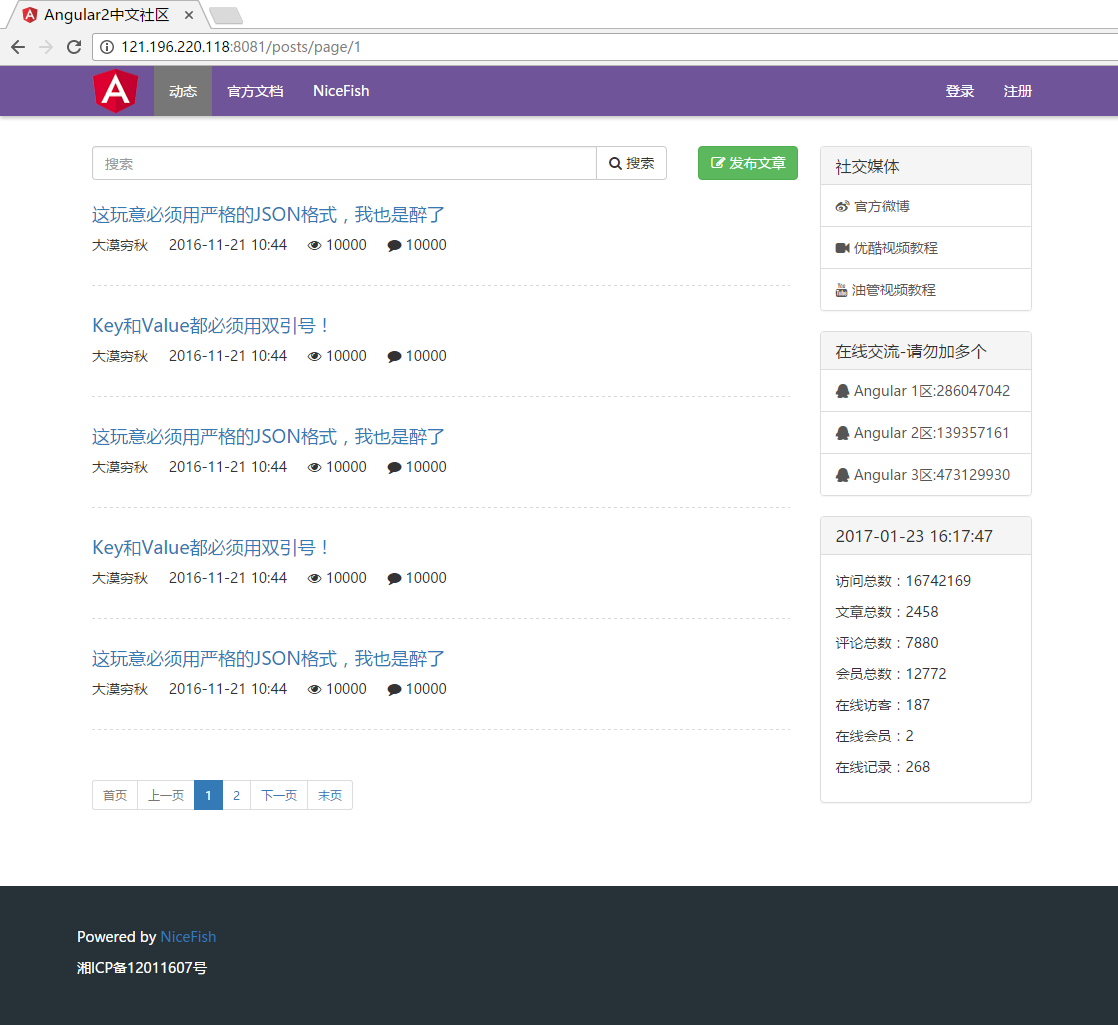
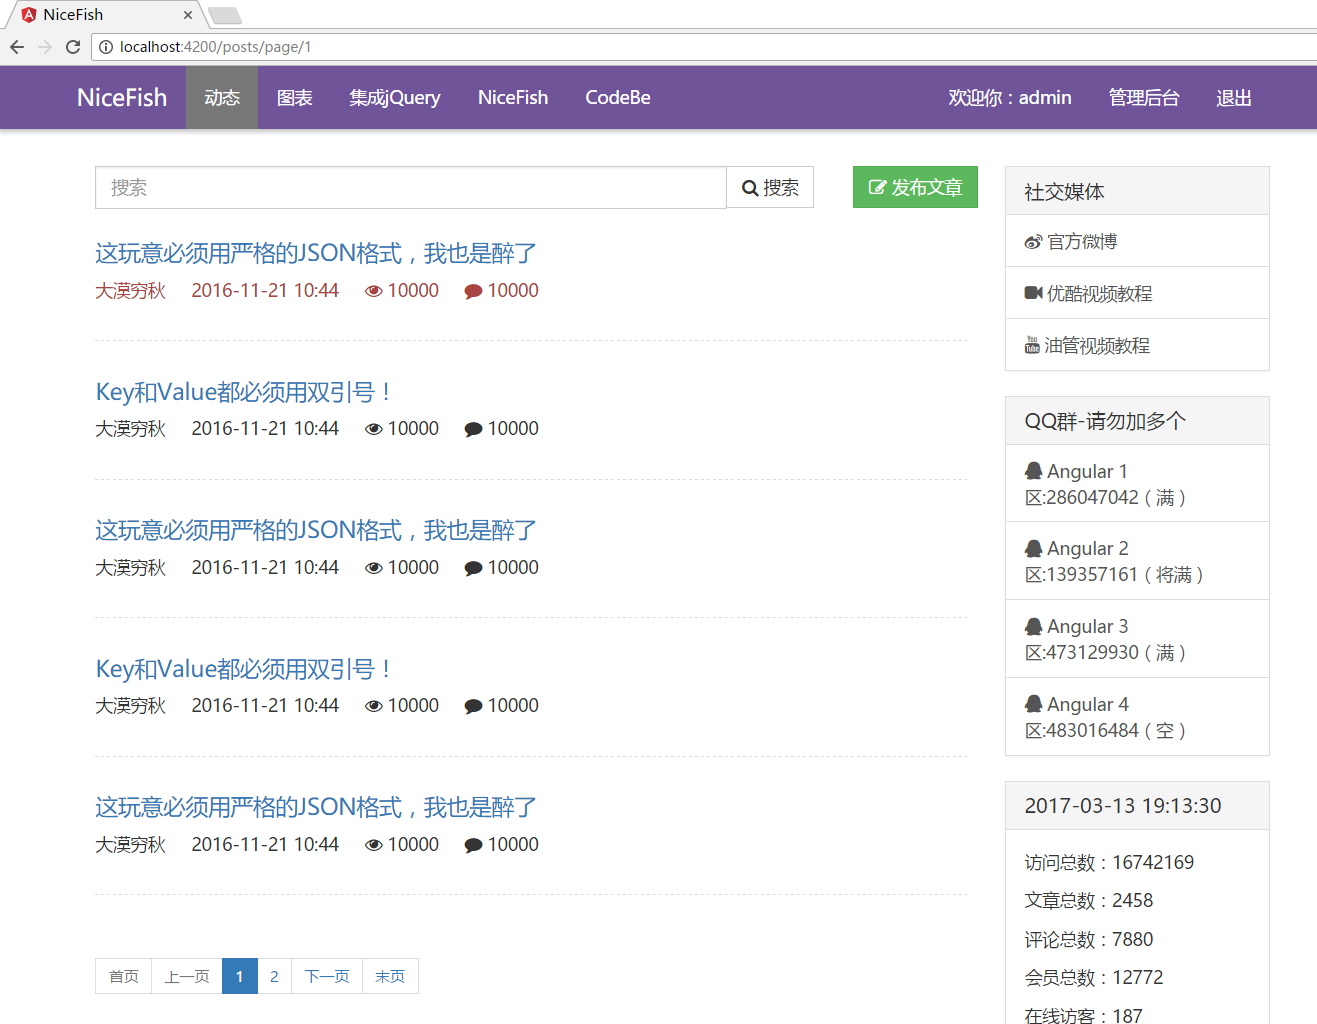
集成jQuery和jQueryUI；

Changed region(s): [[0.0, 0.0, 1.0, 1.0], [0.0608, 0.625, 0.3953, 0.7188], [0.0608, 0.5, 0.4258, 0.5938]]

diff --git a/src/app/use-jquery/use-jquery.component.html b/src/app/use-jquery/use-jquery.component.html
@@ -1,3 +1,41 @@
 <div class="container">
-    <div id="example"></div>
+    <div class="row">
+        <div class="col-sm-12">
+            <h3>本页用来演示如何集成jQuery和jQueryUI控件</h3>
+        </div>
+    </div>
+    <div class="row">
+        <div class="col-sm-12">
+            <p>
+                【请仔细看】相关的文件有：angular-cli.json/typings.d.ts/styles.scss
+            </p>
+        </div>
+    </div>
+    <div class="row">
+        <div class="col-sm-12">
+            日期选择器：
+            <input type="text" id="datepicker">
+        </div>
+    </div>
+    <div class="row">
+        <div class="col-sm-12">
+            <div id="tabs">
+                <ul>
+                    <li><a href="#tabs-1">Nunc tincidunt</a></li>
+                    <li><a href="#tabs-2">Proin dolor</a></li>
+                    <li><a href="#tabs-3">Aenean lacinia</a></li>
+                </ul>
+                <div id="tabs-1">
+                    <p>Proin elit arcu, rutrum commodo, vehicula tempus, commodo a, risus. Curabitur nec arcu. Donec sollicitudin mi sit amet mauris. Nam elementum quam ullamcorper ante. Etiam aliquet massa et lorem. Mauris dapibus lacus auctor risus. Aenean tempor ullamcorper leo. Vivamus sed magna quis ligula eleifend adipiscing. Duis orci. Aliquam sodales tortor vitae ipsum. Aliquam nulla. Duis aliquam molestie erat. Ut et mauris vel pede varius sollicitudin. Sed ut dolor nec orci tincidunt interdum. Phasellus ipsum. Nunc tristique tempus lectus.</p>
+                </div>
+                <div id="tabs-2">
+                    <p>Morbi tincidunt, dui sit amet facilisis feugiat, odio metus gravida ante, ut pharetra massa metus id nunc. Duis scelerisque molestie turpis. Sed fringilla, massa eget luctus malesuada, metus eros molestie lectus, ut tempus eros massa ut dolor. Aenean aliquet fringilla sem. Suspendisse sed ligula in ligula suscipit aliquam. Praesent in eros vestibulum mi adipiscing adipiscing. Morbi facilisis. Curabitur ornare consequat nunc. Aenean vel metus. Ut posuere viverra nulla. Aliquam erat volutpat. Pellentesque convallis. Maecenas feugiat, tellus pellentesque pretium posuere, felis lorem euismod felis, eu ornare leo nisi vel felis. Mauris consectetur tortor et purus.</p>
+                </div>
+                <div id="tabs-3">
+                    <p>Mauris eleifend est et turpis. Duis id erat. Suspendisse potenti. Aliquam vulputate, pede vel vehicula accumsan, mi neque rutrum erat, eu congue orci lorem eget lorem. Vestibulum non ante. Class aptent taciti sociosqu ad litora torquent per conubia nostra, per inceptos himenaeos. Fusce sodales. Quisque eu urna vel enim commodo pellentesque. Praesent eu risus hendrerit ligula tempus pretium. Curabitur lorem enim, pretium nec, feugiat nec, luctus a, lacus.</p>
+                    <p>Duis cursus. Maecenas ligula eros, blandit nec, pharetra at, semper at, magna. Nullam ac lacus. Nulla facilisi. Praesent viverra justo vitae neque. Praesent blandit adipiscing velit. Suspendisse potenti. Donec mattis, pede vel pharetra blandit, magna ligula faucibus eros, id euismod lacus dolor eget odio. Nam scelerisque. Donec non libero sed nulla mattis commodo. Ut sagittis. Donec nisi lectus, feugiat porttitor, tempor ac, tempor vitae, pede. Aenean vehicula velit eu tellus interdum rutrum. Maecenas commodo. Pellentesque nec elit. Fusce in lacus. Vivamus a libero vitae lectus hendrerit hendrerit.</p>
+                </div>
+            </div>
+        </div>
+    </div>
 </div>

diff --git a/src/app/use-jquery/use-jquery.component.ts b/src/app/use-jquery/use-jquery.component.ts
@@ -1,24 +1,16 @@
 import { Component, ElementRef, OnInit } from '@angular/core';
 
-var jQuery =require("jQuery");
-
 @Component({
   selector: 'app-use-jquery',
   templateUrl: './use-jquery.component.html',
   styleUrls: ['./use-jquery.component.scss']
 })
 export class UseJqueryComponent implements OnInit {
-
-	rootNode:any;
-
-  	constructor(rootNode:ElementRef) { 
-  		this.rootNode=rootNode;
+  	constructor() { 
   	}
 
   	ngOnInit() {
-  		var el=jQuery(this.rootNode.nativeElement).find("#example")[0];
-  		console.log(el);
-  		console.log(jQuery);
-
+      $("#datepicker").datepicker();
+      $("#tabs").tabs();
   	}
 }

diff --git a/src/typings.d.ts b/src/typings.d.ts
@@ -5,3 +5,6 @@
 declare var System: any;
 declare var require: NodeRequire;
 declare var tinymce: any;
+declare var JQuery: any;
+declare var jQuery: any;
+declare var $: any;

diff --git a/src/styles.scss b/src/styles.scss
@@ -16,3 +16,5 @@ html {
   position: relative;
   padding-bottom: 162px;
 }
+
+@import  "../node_modules/jquery-ui-dist/jquery-ui.css";
